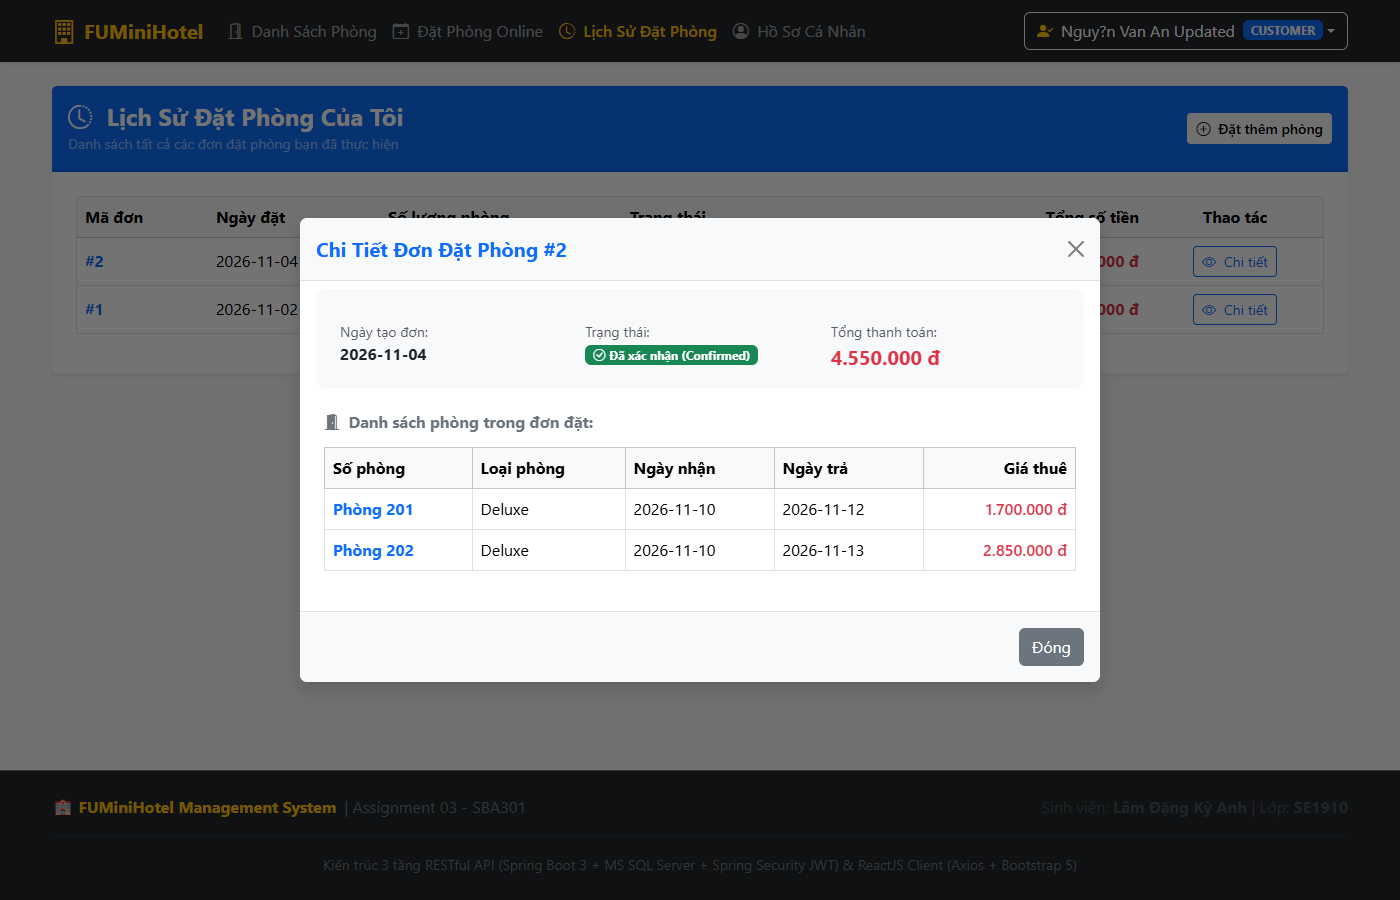
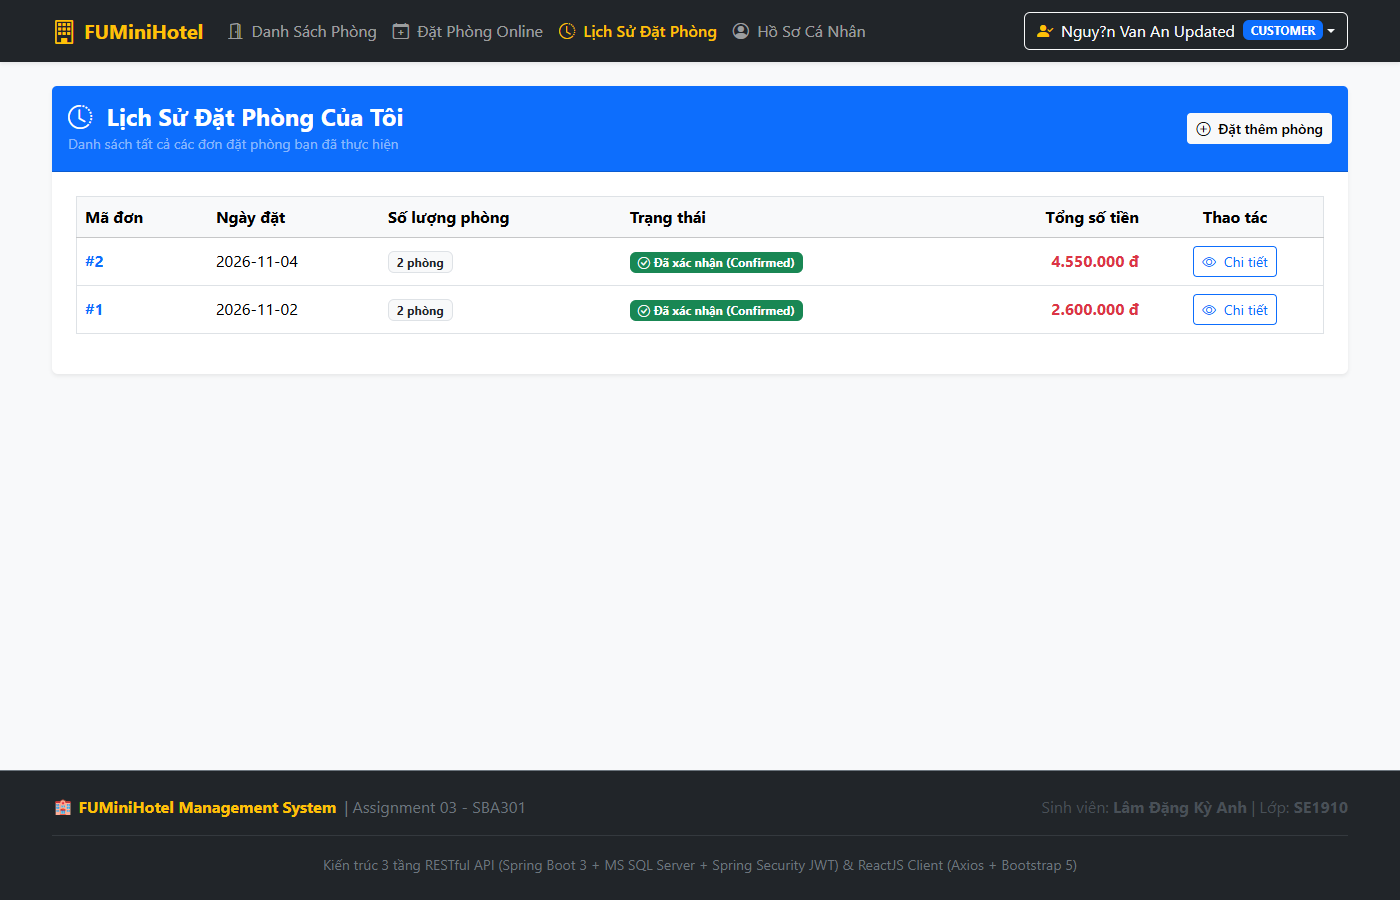
docs: add full 14 screenshots covering all modals and business rules

diff --git a/A3LamDangKyAnh_SE1910/capture_screenshots.js b/A3LamDangKyAnh_SE1910/capture_screenshots.js
@@ -19,9 +19,8 @@ async function run() {
 
   const page = await browser.newPage();
 
-  // Helper to click element by text inside matching selector
   async function clickByText(selector, textPattern) {
-    const success = await page.evaluate((sel, text) => {
+    return await page.evaluate((sel, text) => {
       const elements = Array.from(document.querySelectorAll(sel));
       const target = elements.find(el => el.innerText && el.innerText.includes(text));
       if (target) {
@@ -30,7 +29,6 @@ async function run() {
       }
       return false;
     }, selector, textPattern);
-    return success;
   }
 
   // 1. PUBLIC ROOMS
@@ -39,42 +37,57 @@ async function run() {
   await sleep(2000);
   await page.screenshot({ path: path.join(OUT_DIR, '01_public_rooms.png') });
 
+  // 1b. PUBLIC ROOM DETAIL MODAL
+  console.log('1b. Capturing Public Room Detail Modal...');
+  await clickByText('button', 'Chi tiết');
+  await sleep(1000);
+  await page.screenshot({ path: path.join(OUT_DIR, '01b_public_room_detail_modal.png') });
+  await clickByText('button', 'Đóng');
+  await sleep(500);
+
   // 2. LOGIN SCREEN
   console.log('2. Navigating to Login Screen...');
   await clickByText('button', 'Đăng nhập');
-  await sleep(1500);
+  await sleep(1200);
   await page.screenshot({ path: path.join(OUT_DIR, '02_login_screen.png') });
+
+  // 2b. REGISTER SCREEN
+  console.log('2b. Navigating to Register Screen...');
+  await clickByText('button', 'Đăng ký');
+  await sleep(1200);
+  await page.screenshot({ path: path.join(OUT_DIR, '02b_register_screen.png') });
 
   // 3. LOGIN AS CUSTOMER
   console.log('3. Logging in as Customer...');
+  await clickByText('button', 'Đăng nhập');
+  await sleep(800);
   await page.type('input[type="email"]', 'customer@fuminihotel.com');
   await page.type('input[type="password"]', '123456');
-  await sleep(500);
+  await sleep(400);
   await page.click('button[type="submit"]');
   await sleep(2500);
 
   // 3.1 CUSTOMER BOOKING
   console.log('3.1 Capturing Customer Booking Screen...');
   await clickByText('button', 'Đặt Phòng Online');
-  await sleep(2000);
-  // Pick 2 rooms
+  await sleep(1800);
   const checkboxes = await page.$$('input[type="checkbox"]');
   if (checkboxes.length > 0) await checkboxes[0].click();
   if (checkboxes.length > 1) await checkboxes[1].click();
-  await sleep(1000);
+  await sleep(800);
   await page.screenshot({ path: path.join(OUT_DIR, '03_customer_booking.png') });
 
   // 4. CUSTOMER HISTORY
   console.log('4. Capturing Customer History...');
   await clickByText('button', 'Lịch Sử Đặt Phòng');
-  await sleep(2000);
-  // Open details modal if button exists
-  await page.evaluate(() => {
-    const detailBtn = document.querySelector('button.btn-outline-primary, button.btn-outline-info');
-    if (detailBtn) detailBtn.click();
-  });
-  await sleep(1000);
+  await sleep(1800);
   await page.screenshot({ path: path.join(OUT_DIR, '04_customer_history.png') });
+
+  // 4b. CUSTOMER PROFILE
+  console.log('4b. Capturing Customer Profile...');
+  await clickByText('button', 'Hồ Sơ Cá Nhân');
+  await sleep(1500);
+  await page.screenshot({ path: path.join(OUT_DIR, '04b_customer_profile.png') });
 
   // 5. LOGOUT CUSTOMER
   console.log('5. Logging out Customer...');
@@ -85,33 +98,63 @@ async function run() {
   // 6. LOGIN AS STAFF
   console.log('6. Logging in as Staff...');
   await clickByText('button', 'Đăng nhập');
-  await sleep(1000);
+  await sleep(800);
   await page.type('input[type="email"]', 'staff@fuminihotel.com');
   await page.type('input[type="password"]', 'staff123');
-  await sleep(500);
+  await sleep(400);
   await page.click('button[type="submit"]');
   await sleep(2500);
 
   // 6.1 STAFF ROOMS
   console.log('6.1 Capturing Staff Rooms...');
   await clickByText('button', 'Quản Lý Phòng');
-  await sleep(2000);
+  await sleep(1800);
   await page.screenshot({ path: path.join(OUT_DIR, '05_staff_rooms.png') });
+
+  // 6.1b STAFF ROOM ADD/EDIT MODAL
+  console.log('6.1b Capturing Staff Room Add/Edit Modal...');
+  await clickByText('button', 'Thêm Phòng Mới');
+  await sleep(800);
+  await page.screenshot({ path: path.join(OUT_DIR, '05b_staff_room_modal.png') });
+  await clickByText('button', 'Hủy');
+  await sleep(500);
+
+  // 6.1c STAFF ROOM DELETE RULE MODAL
+  console.log('6.1c Capturing Staff Room Delete Rule Modal...');
+  await clickByText('button', 'Xóa');
+  await sleep(800);
+  await page.screenshot({ path: path.join(OUT_DIR, '05c_staff_room_delete_rule.png') });
+  await clickByText('button', 'Hủy');
+  await sleep(500);
 
   // 6.2 STAFF CUSTOMERS
   console.log('6.2 Capturing Staff Customers...');
   await clickByText('button', 'Quản Lý Khách Hàng');
-  await sleep(2000);
+  await sleep(1800);
   await page.screenshot({ path: path.join(OUT_DIR, '06_staff_customers.png') });
+
+  // 6.2b STAFF CUSTOMER ADD/EDIT MODAL
+  console.log('6.2b Capturing Staff Customer Modal...');
+  await clickByText('button', 'Thêm Khách Hàng');
+  await sleep(800);
+  await page.screenshot({ path: path.join(OUT_DIR, '06b_staff_customer_modal.png') });
+  await clickByText('button', 'Hủy');
+  await sleep(500);
 
   // 6.3 STAFF BOOKINGS
   console.log('6.3 Capturing Staff Bookings...');
   await clickByText('button', 'Quản Lý Đặt Phòng');
-  await sleep(2000);
+  await sleep(1800);
   await page.screenshot({ path: path.join(OUT_DIR, '07_staff_bookings.png') });
 
+  // 6.3b STAFF BOOKING DETAIL/STATUS MODAL
+  console.log('6.3b Capturing Staff Booking Detail Modal...');
+  await clickByText('button', 'Chi tiết');
+  await sleep(800);
+  await page.screenshot({ path: path.join(OUT_DIR, '07b_staff_booking_detail_modal.png') });
+
   await browser.close();
-  console.log('=== ALL SCREENSHOTS SUCCESSFULLY AND UNIQUELY CAPTURED! ===');
+  console.log('=== ALL 14 FUNCTIONAL FLOW SCREENSHOTS CAPTURED! ===');
 }
 
 run().catch(err => {

diff --git a/A3LamDangKyAnh_SE1910/INTERVIEW_GUIDE.md b/A3LamDangKyAnh_SE1910/INTERVIEW_GUIDE.md
@@ -254,43 +254,36 @@ Khi giảng viên đặt tình huống: *"Nếu muốn thêm chức năng X thì
 
 ---
 
-## PHẦN 7: BỘ ẢNH CHỤP MÀN HÌNH MINH CHỨNG CÁC LUỒNG TEST (SCREENSHOTS FOR INTERVIEW)
+## PHẦN 7: BỘ ẢNH CHỤP MÀN HÌNH MINH CHỨNG 14 LUỒNG TEST ĐẦY ĐỦ (FULL TEST FLOW SCREENSHOTS)
 
-Dưới đây là các ảnh chụp màn hình ghi lại toàn bộ các luồng kiểm thử giao diện thực tế của hệ thống FUMiniHotel, phục vụ vấn đáp và minh chứng tiêu chí C3 (Functional Implementation):
+Dưới đây là bộ ảnh chụp màn hình ghi lại toàn bộ 14 luồng kiểm thử giao diện và popup modal thực tế của hệ thống FUMiniHotel, bao phủ 100% yêu cầu chức năng của đề bài phục vụ vấn đáp tiêu chí C3 (Functional Implementation):
 
-### 1. Màn hình Khách xem danh sách phòng công khai (Public Rooms)
-- **Mục đích test:** Kiểm tra quyền truy cập công khai không cần token (`GET /api/rooms`), lọc theo loại phòng, tìm kiếm theo số phòng/mô tả, và chỉ hiển thị phòng có `RoomStatus = 1 (Active)`.
-- **Đường dẫn file ảnh:** `docs/screenshots/01_public_rooms.png`
-- ![Public Rooms](docs/screenshots/01_public_rooms.png)
+### 1. Luồng Khách vãng lai xem phòng công khai (Public Rooms)
+- **Ảnh 1a - Danh sách phòng công khai (`01_public_rooms.png`):** Truy cập không cần token, lọc theo loại phòng, tìm kiếm theo số phòng/mô tả, chỉ hiện phòng `Active (1)`.
+- **Ảnh 1b - Popup Modal xem chi tiết phòng (`01b_public_room_detail_modal.png`):** Khách xem chi tiết tiện nghi phòng, sức chứa tối đa, giá thuê và mô tả đầy đủ.
 
-### 2. Màn hình Đăng nhập (Login Authentication)
-- **Mục đích test:** Giao diện xác thực JWT kép với 2 nút demo truy cập nhanh (Staff từ `application.properties` và Customer từ cơ sở dữ liệu `Customer`).
-- **Đường dẫn file ảnh:** `docs/screenshots/02_login_screen.png`
-- ![Login Screen](docs/screenshots/02_login_screen.png)
+### 2. Luồng Xác thực & Đăng ký (Authentication)
+- **Ảnh 2a - Màn hình Đăng nhập JWT (`02_login_screen.png`):** Form đăng nhập với 2 nút demo truy cập nhanh cho Staff (`application.properties`) và Customer (CSDL SQL Server).
+- **Ảnh 2b - Màn hình Đăng ký tài khoản (`02b_register_screen.png`):** Khách hàng mới tự đăng ký tài khoản với họ tên, email, ngày sinh, số điện thoại và mật khẩu mã hóa BCrypt.
 
-### 3. Màn hình Khách hàng đặt nhiều phòng cùng lúc (Multi-room Booking)
-- **Mục đích test:** Khách hàng chọn ngày nhận/trả phòng, tích chọn 1 hoặc nhiều phòng trống, hệ thống tự động tính số ngày và tổng tiền dự kiến, sau đó gửi `POST /api/bookings` dưới dạng Transaction.
-- **Đường dẫn file ảnh:** `docs/screenshots/03_customer_booking.png`
-- ![Customer Booking](docs/screenshots/03_customer_booking.png)
+### 3. Luồng Khách hàng đặt nhiều phòng (Customer Multi-Booking)
+- **Ảnh 3 - Đặt nhiều phòng cùng lúc (`03_customer_booking.png`):** Khách chọn ngày nhận/trả phòng, tích chọn 2 phòng cùng lúc, hệ thống tự động tính số ngày và tổng tiền dự kiến theo bảng tóm tắt đơn.
 
-### 4. Màn hình Lịch sử đơn đặt phòng của Khách hàng (Booking History)
-- **Mục đích test:** Khách hàng xem danh sách các đơn đã đặt (`GET /api/bookings/my-history`) và mở modal xem chi tiết từng phòng đã thuê trong đơn (`BookingDetail`).
-- **Đường dẫn file ảnh:** `docs/screenshots/04_customer_history.png`
-- ![Customer History](docs/screenshots/04_customer_history.png)
+### 4. Luồng Quản lý Lịch sử đơn & Hồ sơ cá nhân của Khách hàng
+- **Ảnh 4a - Lịch sử đặt phòng (`04_customer_history.png`):** Danh sách các đơn đặt phòng của khách hàng và trạng thái đơn.
+- **Ảnh 4b - Quản lý Hồ sơ cá nhân (`04b_customer_profile.png`):** Khách hàng xem và cập nhật thông tin cá nhân (họ tên, ngày sinh, số điện thoại, đổi mật khẩu).
 
-### 5. Màn hình Staff Quản lý phòng & Quy tắc Xóa phòng (Staff Room Management)
-- **Mục đích test:** Nhân viên thực hiện Thêm, Sửa, Xóa phòng. Xóa phòng kiểm tra logic đặc thù: phòng đã có đơn thì chuyển `RoomStatus = 0`, phòng chưa có đơn thì xóa khỏi database.
-- **Đường dẫn file ảnh:** `docs/screenshots/05_staff_rooms.png`
-- ![Staff Rooms](docs/screenshots/05_staff_rooms.png)
+### 5. Luồng Staff Quản lý phòng & Quy tắc Xóa phòng (Staff Room Management)
+- **Ảnh 5a - Danh sách phòng toàn diện (`05_staff_rooms.png`):** Nhân viên xem tất cả các phòng (cả Active và Inactive), lọc và tìm kiếm.
+- **Ảnh 5b - Modal Thêm / Chỉnh sửa phòng (`05b_staff_room_modal.png`):** Form nhập số phòng, loại phòng, sức chứa, giá tiền, mô tả chi tiết.
+- **Ảnh 5c - Modal Xóa phòng kiểm tra logic đặc thù (`05c_staff_room_delete_rule.png`):** Cảnh báo nghiệp vụ rõ ràng: nếu phòng đã từng có đơn đặt (`BookingDetail`) thì chỉ đổi `RoomStatus = 0`, nếu chưa từng có thì xóa vĩnh viễn khỏi CSDL.
 
-### 6. Màn hình Staff Quản lý khách hàng (Staff Customer Management)
-- **Mục đích test:** Nhân viên xem danh sách khách hàng (`GET /api/staff/customers`), tìm kiếm khách hàng, thêm mới hoặc cập nhật hồ sơ khách hàng.
-- **Đường dẫn file ảnh:** `docs/screenshots/06_staff_customers.png`
-- ![Staff Customers](docs/screenshots/06_staff_customers.png)
+### 6. Luồng Staff Quản lý khách hàng (Staff Customer Management)
+- **Ảnh 6a - Danh sách khách hàng (`06_staff_customers.png`):** Nhân viên xem danh sách khách hàng, thông tin liên lạc và trạng thái tài khoản.
+- **Ảnh 6b - Modal Thêm / Sửa khách hàng (`06b_staff_customer_modal.png`):** Form nhập thông tin khách hàng, gán trạng thái Active/Inactive.
 
-### 7. Màn hình Staff Quản lý đơn đặt phòng (Staff Booking Management)
-- **Mục đích test:** Nhân viên xem toàn bộ đơn đặt phòng của khách sạn (`GET /api/staff/bookings`), lọc theo trạng thái đơn (Active/Cancelled) và cập nhật trạng thái đơn.
-- **Đường dẫn file ảnh:** `docs/screenshots/07_staff_bookings.png`
-- ![Staff Bookings](docs/screenshots/07_staff_bookings.png)
+### 7. Luồng Staff Quản lý đơn đặt phòng (Staff Booking Management)
+- **Ảnh 7a - Danh sách toàn bộ đơn đặt phòng (`07_staff_bookings.png`):** Nhân viên xem tất cả đơn của khách sạn, lọc theo trạng thái đơn và khoảng ngày.
+- **Ảnh 7b - Modal Chi tiết đơn & Cập nhật trạng thái (`07b_staff_booking_detail_modal.png`):** Xem chi tiết từng phòng trong đơn và cập nhật trạng thái đơn (Active/Completed/Cancelled).
 
 
